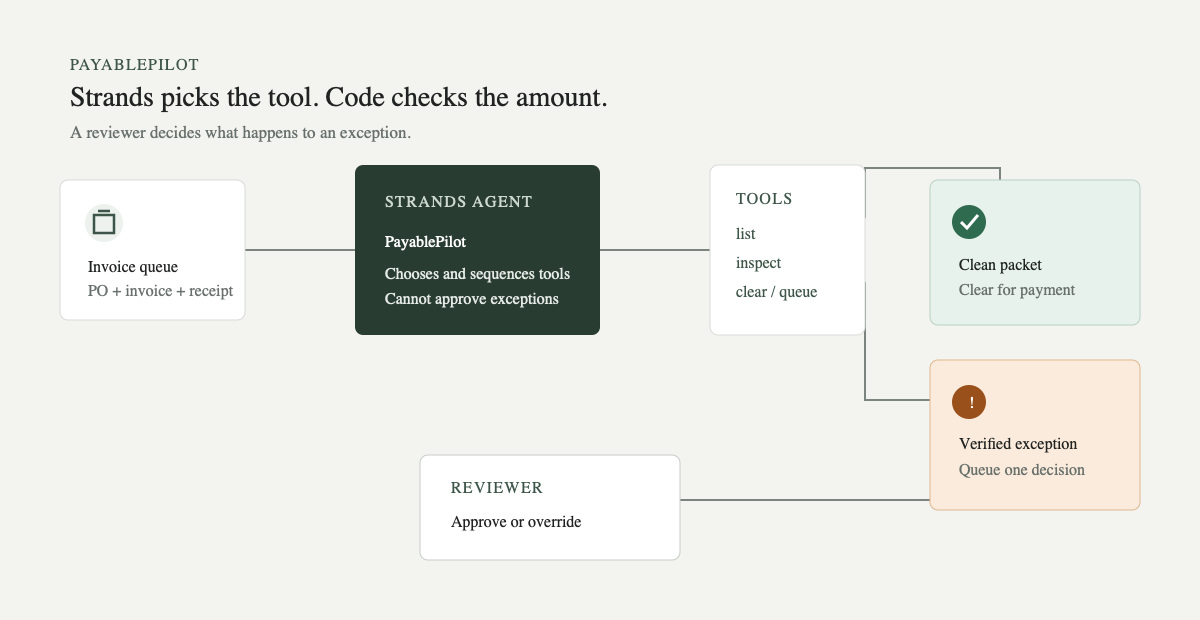
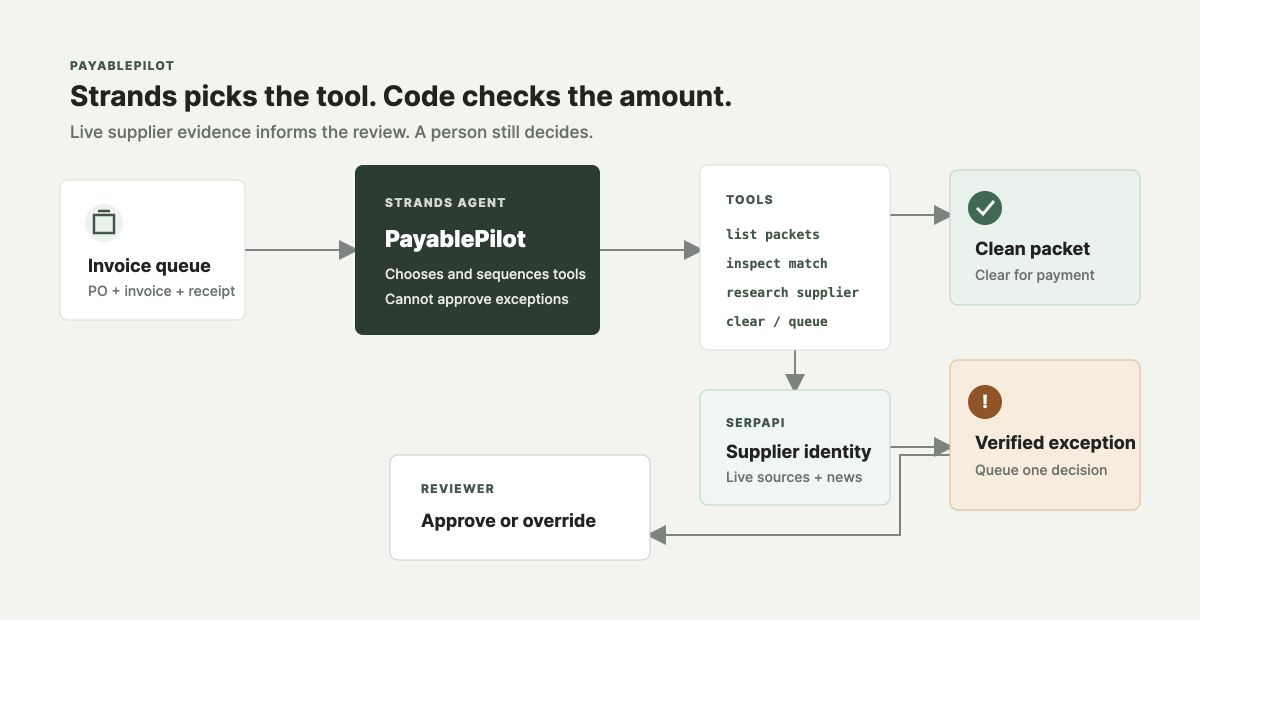
Strengthen the live SerpApi demo

diff --git a/app/page.tsx b/app/page.tsx
@@ -1,6 +1,7 @@
 "use client";
 
 import { useEffect, useState } from "react";
+import serpApiProof from "../public/proof/strands-serpapi-run.json";
 
 type Decision = "credit" | "override" | null;
 
@@ -107,13 +108,21 @@ export default function Home() {
               <span className="packet-id">PP-2086</span>
             </div>
             <h2>{decision ? (requestedCredit ? "Invoice held. Credit request queued." : "Override recorded. Invoice released.") : "Hold INV-25791 and request a $200.00 credit?"}</h2>
-            <p className="supplier">Everett Workplace Systems · PO-8412</p>
+            <p className="supplier">CDW Canada Corp. · PO-8412 · demo packet</p>
 
             {serpApiMode && (
               <div className="supplier-check">
                 <span>Live supplier intelligence</span>
-                <strong>Search completed, identity unverified</strong>
-                <p>No matching source was found for this fictional supplier, so the agent made no adverse claim.</p>
+                <strong>Identity matched across {serpApiProof.supplierResearch.identity.sources.length} sources</strong>
+                <p>No adverse news matched. The invoice and purchase order are fictional demo records.</p>
+                <div className="supplier-sources">
+                  {serpApiProof.supplierResearch.identity.sources.slice(0, 2).map((source) => (
+                    <a key={source.link} href={source.link} target="_blank" rel="noreferrer">
+                      {source.source}
+                      {source.date ? ` · ${source.date}` : ""}
+                    </a>
+                  ))}
+                </div>
               </div>
             )}
 

diff --git a/scripts/encode_demo_video.swift b/scripts/encode_demo_video.swift
@@ -9,7 +9,7 @@ let outputURL = root.appendingPathComponent("output/devpost/payable-pilot-demo.m
 let frameRate: Int32 = 30
 let width = 1920
 let height = 1080
-let durations = [6, 12, 12, 10, 8]
+let durations = [10, 18, 16, 18, 16, 12]
 
 try? FileManager.default.removeItem(at: outputURL)
 
@@ -88,7 +88,7 @@ func makePixelBuffer(image: CGImage, progress: Double, animate: Bool) -> CVPixel
 }
 
 var frameIndex: Int64 = 0
-for sceneIndex in 1...5 {
+for sceneIndex in 1...6 {
     let sceneURL = frameDirectory.appendingPathComponent("scene-\(sceneIndex).png")
     let image = loadCGImage(sceneURL)
     let sceneFrames = durations[sceneIndex - 1] * Int(frameRate)
@@ -98,7 +98,7 @@ for sceneIndex in 1...5 {
             Thread.sleep(forTimeInterval: 0.002)
         }
         let progress = sceneFrames > 1 ? Double(sceneFrame) / Double(sceneFrames - 1) : 0.0
-        let buffer = makePixelBuffer(image: image, progress: progress, animate: sceneIndex > 1 && sceneIndex < 5)
+        let buffer = makePixelBuffer(image: image, progress: progress, animate: sceneIndex > 1 && sceneIndex < 6)
         let time = CMTime(value: frameIndex, timescale: frameRate)
         if !adaptor.append(buffer, withPresentationTime: time) {
             fatalError("Unable to append frame \(frameIndex): \(writer.error?.localizedDescription ?? "unknown error")")

diff --git a/app/globals.css b/app/globals.css
@@ -310,6 +310,17 @@ h2 { margin: 0; font-size: 23px; letter-spacing: -0.035em; }
 
 .supplier-check strong { display: block; margin-top: 5px; font-size: 14px; }
 .supplier-check p { margin: 4px 0 0; color: var(--muted); font-size: 11px; line-height: 1.4; }
+.supplier-sources { display: flex; flex-wrap: wrap; gap: 6px; margin-top: 9px; }
+.supplier-sources a {
+  padding: 4px 7px;
+  border: 1px solid #bdded4;
+  border-radius: 999px;
+  color: var(--green);
+  font-size: 10px;
+  font-weight: 700;
+  text-decoration: none;
+}
+.supplier-sources a:hover { background: #e2f5ef; }
 
 .evidence-grid {
   display: grid;

diff --git a/scripts/build_demo_frames.py b/scripts/build_demo_frames.py
@@ -1,4 +1,5 @@
 from pathlib import Path
+import json
 
 from PIL import Image, ImageDraw, ImageFont, ImageOps
 
@@ -41,7 +42,7 @@ def intro() -> Image.Image:
     draw.text((112, 270), "One price exception. One reviewer decision.", font=font(66, bold=True), fill=INK)
 
     rows = [
-        ("SUPPLIER", "Everett Workplace Systems"),
+        ("SUPPLIER", "CDW Canada Corp. (demo record)"),
         ("PO / INVOICE", "$94.00 / $119.00 per unit"),
         ("QUANTITY", "8 dual monitor arms"),
         ("HELD FROM PAYMENT", "$200.00"),
@@ -73,24 +74,52 @@ def product_scene(asset_name: str, step: str, note: str, caption: str) -> Image.
 def architecture_scene() -> Image.Image:
     image = Image.new("RGB", SIZE, PAPER)
     draw = ImageDraw.Draw(image)
-    header(draw, "04 / 05", "The agent selects tools. Code verifies the amount.")
+    header(draw, "05 / 06", "The agent selects tools. Code verifies the amount.")
     source = Image.open(DOCS / "architecture.png").convert("RGB")
     fitted = ImageOps.contain(source, (1700, 800), Image.Resampling.LANCZOS)
     x = (SIZE[0] - fitted.width) // 2
     y = 185 + (800 - fitted.height) // 2
     image.paste(fitted, (x, y))
-    draw.text((76, 1016), "Four explicit tools make the run inspectable and keep financial math deterministic.", font=font(27, bold=True), fill=INK)
+    draw.text((76, 1016), "Six recorded tool calls keep the search, math, and decision boundary inspectable.", font=font(27, bold=True), fill=INK)
+    return image
+
+
+def proof_scene() -> Image.Image:
+    image = Image.new("RGB", SIZE, PAPER)
+    draw = ImageDraw.Draw(image)
+    header(draw, "03 / 06", "The public proof records the live search and the financial decision")
+    proof = json.loads((ROOT / "public" / "proof" / "strands-serpapi-run.json").read_text())
+    research = proof["supplierResearch"]
+    decision = proof["decision"]
+    source_names = ", ".join(source["source"] for source in research["identity"]["sources"])
+    rows = [
+        ("SUPPLIER", research["supplier"]),
+        ("IDENTITY", f"Matched across {len(research['identity']['sources'])} live sources"),
+        ("SOURCES", source_names),
+        ("ADVERSE NEWS", "No matching result"),
+        ("DECISION", f"${decision['verifiedImpact']:.2f} held for a person"),
+    ]
+    top = 220
+    for index, (label, value) in enumerate(rows):
+        y = top + index * 130
+        draw.line((90, y, 1830, y), fill=RULE, width=2)
+        draw.text((110, y + 35), label, font=font(22, mono=True), fill=MUTED)
+        draw.text((530, y + 28), value, font=font(34, bold=True), fill=AMBER if label == "DECISION" else INK)
+    draw.line((90, top + len(rows) * 130, 1830, top + len(rows) * 130), fill=RULE, width=2)
+    draw.text((110, 920), "SERPAPI SEARCH IDS", font=font(20, mono=True), fill=MUTED)
+    draw.text((530, 912), "  /  ".join(research["searchIds"]), font=font(22, mono=True), fill=FOREST)
+    draw.text((76, 1016), "Search results are evidence, not a fraud verdict. The invoice and PO are demo records.", font=font(27, bold=True), fill=INK)
     return image
 
 
 def source_scene() -> Image.Image:
     image = Image.new("RGB", SIZE, PAPER)
     draw = ImageDraw.Draw(image)
-    header(draw, "05 / 05", "The public demo replays the included fixture")
+    header(draw, "06 / 06", "The public demo replays the included fixture")
     rows = [
         ("AGENT", "Strands Agents SDK"),
-        ("TOOLS", "list / inspect / hold / clear"),
-        ("TESTS", "10 passing tests cover the agent, domain checks, and server"),
+        ("TOOLS", "list / inspect / research / hold / clear"),
+        ("TESTS", "14 passing tests cover the agent, search guardrails, and server"),
         ("FIXTURE", "PP-2086 and PP-2087 are included in the repository"),
     ]
     top = 250
@@ -113,16 +142,17 @@ def main() -> None:
     scenes = [
         intro(),
         product_scene(
-            "live-before.jpg",
-            "02 / 05",
-            "The agent cleared PP-2087 and held PP-2086",
-            "The four tool calls, source references, and $200.00 difference are visible together.",
+            "serpapi-live.jpg",
+            "02 / 06",
+            "SerpApi matched the supplier across three live sources",
+            "The agent found no adverse-news match and kept the $200.00 exception behind review.",
         ),
+        proof_scene(),
         product_scene(
-            "live-after.jpg",
-            "03 / 05",
+            "serpapi-resolved.jpg",
+            "04 / 06",
             "The reviewer approved the credit request and hold",
-            "The pending count drops to zero and the decision becomes the fourth recorded event.",
+            "The agent researched and queued the exception. A person made the money decision.",
         ),
         architecture_scene(),
         source_scene(),

diff --git a/docs/devpost-submission.md b/docs/devpost-submission.md
@@ -2,7 +2,7 @@
 
 ## Tagline
 
-A Strands agent clears matched invoices and stops price exceptions for a person.
+An invoice agent clears clean packets and checks price exceptions with live supplier evidence.
 
 ## Inspiration
 
@@ -10,9 +10,9 @@ Most invoice packets are routine, but someone still has to open them. I wanted t
 
 ## What it does
 
-The included run has two fictional packets. PP-2087 clears because the purchase order, invoice, and receipt agree. PP-2086 stops because Everett Workplace Systems invoiced eight monitor arms at $119 each while the purchase order lists $94. The difference is $25 per unit and $200 in total.
+The included run has two fictional packets. PP-2087 clears because the purchase order, invoice, and receipt agree. PP-2086 stops because eight monitor arms were invoiced at $119 each while the purchase order lists $94. The difference is $25 per unit and $200 in total.
 
-The agent works through six tool calls. It lists the queue, inspects both packets, checks the exception supplier with live SerpApi data, clears the clean packet, and sends the exception to a person. The reviewer can request a credit and hold the invoice or choose to pay it anyway. The agent cannot make that choice.
+The agent works through six tool calls. It lists the queue, inspects both packets, checks the exception supplier with live SerpApi data, clears the clean packet, and sends the exception to a person. CDW Canada is a real supplier reference, while the invoice and purchase order are clearly marked as demo records. The live check found three identity sources and no matching adverse news. The reviewer can request a credit and hold the invoice or choose to pay it anyway. The agent cannot make that choice.
 
 ## How I built it
 
@@ -34,7 +34,7 @@ I also separated this example from my document-verification project. PayablePilo
 - PP-2086 is held on a verified $200 unit-price difference.
 - Six tool calls are captured in the public run evidence.
 - The supplier check completed through SerpApi and returned two search IDs.
-- The fictional supplier remained unverified, so the agent made no adverse claim.
+- The live search matched CDW Canada across three identity sources and found no matching adverse news.
 - A person must make the exception decision.
 - Fourteen tests cover the agent loop, matching rules, HTTP invocation contract, server, and supplier-evidence guardrails.
 
@@ -56,7 +56,7 @@ The useful part of the agent is not financial improvisation. It is choosing the 
 - Run evidence: https://jonny7171.github.io/payable-pilot/proof/strands-serpapi-run.json
 - HTTP runtime proof: https://jonny7171.github.io/payable-pilot/proof/agentcore-contract-run.json
 - Source: https://github.com/Jonny7171/payable-pilot
-- Screenshot: `docs/live-before.jpg`
+- Screenshot: `docs/serpapi-live.jpg`
 - Resolved state: `docs/live-after.jpg`
 - Architecture: `docs/architecture.png`
 - Demo video: https://youtu.be/szxQIb9EidQ

diff --git a/docs/youtube-description.md b/docs/youtube-description.md
@@ -1,6 +1,6 @@
 PayablePilot runs two fictional invoice packets through a Strands agent. This 48-second walkthrough shows PP-2087 clearing, PP-2086 stopping on a verified $200 unit-price difference, and a person recording the credit request and hold.
 
-August 30 update: I added a live supplier check through SerpApi. The supplier in the fixture is fictional, so the search returned unverified instead of inventing a risk claim. The public evidence file records the six-tool Strands run, both SerpApi search IDs, the $200 calculation, and the human review state.
+August 30 update: I added a live supplier check through SerpApi. It matched CDW Canada across three identity sources and found no adverse news tied to the company. The invoice and purchase order are fictional demo records. The public evidence file records the six-tool Strands run, both SerpApi search IDs, the $200 calculation, and the human review state.
 
 Live supplier view:
 https://jonny7171.github.io/payable-pilot/?engine=serpapi

diff --git a/README.md b/README.md
@@ -25,7 +25,7 @@ purchase order, invoice, and receipt agree. It holds the other because eight
 monitor arms were invoiced at $119 each instead of the $94 purchase-order rate.
 The resulting price difference is $200.
 
-![PayablePilot dashboard](docs/payable-pilot-dashboard.jpg)
+![PayablePilot live SerpApi review](docs/serpapi-live.jpg)
 
 ## What the agent does
 
@@ -154,8 +154,9 @@ or contact a supplier on a person's behalf.
 
 ## Hackathon status
 
-This repository was started on August 27, 2026 during the Agents for Humans
-submission period. It is a new implementation for that event. It does not copy
-source code from the earlier ClearPacket project.
+This repository was started on August 27, 2026 during the DevNetwork API +
+Cloud + AI Hackathon 2026. It is a separate implementation with its own invoice
+fixtures, agent workflow, SerpApi integration, interface, and tests. It does not
+copy source code from the earlier ClearPacket project.
 
 License: MIT

diff --git a/docs/serpapi-submission.md b/docs/serpapi-submission.md
@@ -24,8 +24,9 @@ IDs are kept with the review record.
 ## Live proof completed August 30, 2026
 
 - The real Strands loop called `research_supplier_risk` before escalating PP-2086.
-- SerpApi returned search IDs `6a94df93f5d5ac5b25f68c31` and `6a94df9369819d77d048cb02`.
-- The fictional supplier remained unverified and no adverse claim was made.
+- SerpApi returned search IDs `6a94e1b72328e1a505c09f75` and `6a94e1b7f9aa7341185f653d`.
+- The search matched CDW Canada across three identity sources and found no matching adverse news.
+- The invoice and purchase order are fictional demo records. Search results are treated as evidence, not a verdict.
 - PP-2087 cleared and PP-2086 stayed behind the human approval boundary.
 - All 14 tests passed.
 - Public evidence: https://jonny7171.github.io/payable-pilot/proof/strands-serpapi-run.json

diff --git a/docs/demo-video-script.md b/docs/demo-video-script.md
@@ -32,7 +32,7 @@ Open the SerpApi view and point to the supplier intelligence box.
 
 Say:
 
-"For the exception packet, the Strands agent also ran a live supplier check through SerpApi. This supplier is fictional, so the identity stayed unverified. The important part is that the agent says exactly that. It does not turn missing evidence into a fraud claim."
+"For the exception packet, the Strands agent also ran a live supplier check through SerpApi. It matched CDW Canada across three sources and found no adverse news tied to the company. The invoice itself is a demo record. Search results are evidence here, not a fraud verdict."
 
 ## 1:10 to 1:28
 

diff --git a/docs/architecture.md b/docs/architecture.md
@@ -6,7 +6,8 @@ flowchart LR
   B --> C[List pending packets]
   B --> D[Deterministic three-way match]
   D -->|Clean| E[Clear for payment]
-  D -->|Exception| F[Queue one decision]
+  D -->|Exception| S[SerpApi supplier evidence]
+  S --> F[Queue one decision]
   F --> G[Human approval]
   G --> H[Vendor action and audit record]
 ```
